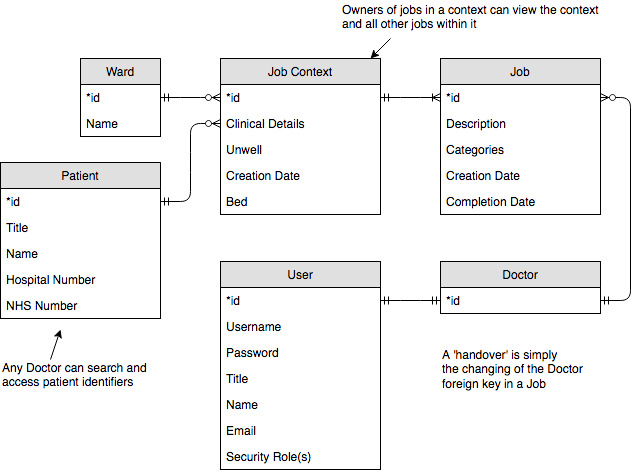
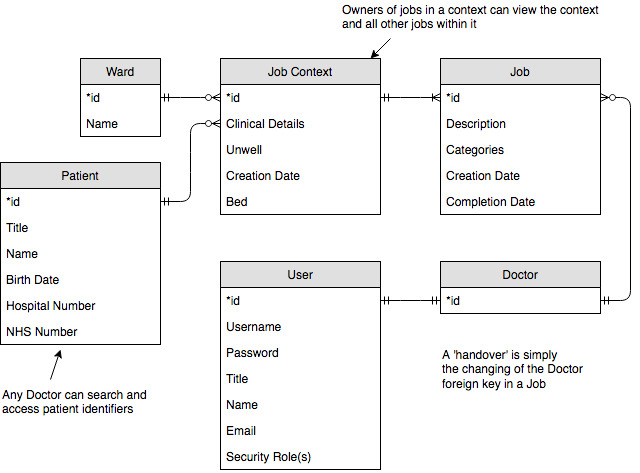
modified pdf printing to work with jobs

Changed region(s): [[0.0, 0.5624, 0.25, 0.8879]]

diff --git a/src/main/resources/templates/misc/printjobs.html b/src/main/resources/templates/misc/printjobs.html
@@ -1,0 +1,65 @@
+<!DOCTYPE HTML>
+<html xmlns:th="http://www.thymeleaf.org">
+<head>
+    <style>
+        p { margin: 0; }
+        th, td {
+            border-bottom: 1px solid #ddd;
+            vertical-align: top;
+        }
+        @page { size: A4 landscape;}
+        body { font-family: 'Roboto', sans-serif; }
+        tr { page-break-inside: avoid !important }
+    </style>
+</head>
+<body>
+    <table>
+        <colgroup>
+            <col span="1" style="width: 25%;" />
+            <col span="1" style="width: 15%;" />
+            <col span="1" style="width: 15%;" />
+            <col span="1" style="width: 25%;" />
+            <col span="1" style="width: 25%;" />
+            <col span="1" style="width: 10%;" />
+        </colgroup>
+
+        <thead>
+            <tr>
+                <th>Patient Details</th>
+                <th>Unwell</th>
+                <th>Category</th>
+                <th>Clinical Details</th>
+                <th>Job Description</th>
+                <th>Done</th>
+            </tr>
+        </thead>
+
+        <tbody>
+            <tr th:each="job,iterStat : ${jobs}">
+                <td>
+                    <p><span th:text="${job.jobContext.patient.title}"/>  <span th:text="${job.jobContext.patient.firstName}"/> <span th:text="${job.jobContext.patient.lastName}"/></p>
+                    <p>D.O.B: <span th:text="${job.jobContext.patient.birthDate}"/></p>
+                    <p>Ward: <span th:text="${job.jobContext.ward.name}"/></p>
+                    <p>Bed: <span th:text="${job.jobContext.bed}"/></p>
+                    <p>Hosp. #: <span th:text="${job.jobContext.patient.hospitalNumber}"/></p>
+                </td>
+                <td>
+                    <span th:text="${job.jobContext.unwell}"/>
+                </td>
+                <td>
+                    <span th:text="${job.category}"/>
+                </td>
+                <td>
+                    <span th:text="${job.jobContext.clinicalDetails}"/>
+                </td>
+                <td>
+                    <span th:text="${job.description}"/>
+                </td>
+                <td>
+                    <p></p>
+                </td>
+            </tr>
+        </tbody>
+    </table>
+</body>
+</html>

diff --git a/src/main/java/com/quantech/model/Patient.java b/src/main/java/com/quantech/model/Patient.java
@@ -7,6 +7,8 @@ import javax.validation.constraints.NotNull;
 
 import java.util.ArrayList;
 import java.util.List;
+import java.util.Date;
+
 
 @Entity
 public class Patient {
@@ -24,6 +26,10 @@ public class Patient {
     @NotNull
     private String lastName;
 
+    @Temporal(TemporalType.DATE)
+    @NotNull
+    private Date birthDate;
+
     @NotNull
     @Column(unique = true)
     private Long hospitalNumber;
@@ -37,10 +43,11 @@ public class Patient {
 
     public Patient() { this.jobContexts = new ArrayList<>(); }
 
-    public Patient(Title title, String firstName, String lastName, Long hospitalNumber, Long nHSNumber, List<JobContext> jobContexts) {
+    public Patient(Title title, String firstName, String lastName, Date birthDate, Long hospitalNumber, Long nHSNumber, List<JobContext> jobContexts) {
         this.title = title;
         this.firstName = firstName;
         this.lastName = lastName;
+        this.birthDate = birthDate;
         this.hospitalNumber = hospitalNumber;
         this.nHSNumber = nHSNumber;
         this.jobContexts = jobContexts;
@@ -108,6 +115,22 @@ public class Patient {
      */
     public void setLastName(String lastName) {
         this.lastName = lastName;
+    }
+
+    /**
+     * Birth date getter.
+     * @return Patient birth date.
+     */
+    public Date getBirthDate() {
+        return birthDate;
+    }
+
+    /**
+     * Birth date setter.
+     * @param birthDate Patient birth date.
+     */
+    public void setBirthDate(Date birthDate) {
+        this.birthDate = birthDate;
     }
 
     /**

diff --git a/src/main/java/com/quantech/misc/PdfGenerator.java b/src/main/java/com/quantech/misc/PdfGenerator.java
@@ -1,6 +1,6 @@
 package com.quantech.misc;
 
-import com.quantech.entities.patient.Patient;
+import com.quantech.model.Job;
 import org.thymeleaf.TemplateEngine;
 import org.thymeleaf.context.Context;
 import org.thymeleaf.templateresolver.ClassLoaderTemplateResolver;
@@ -13,7 +13,7 @@ import java.util.List;
 
 public class PdfGenerator {
 
-    public void patientAsPdf(List<Patient> patients) throws Exception {
+    public void patientAsPdf(List<Job> jobs) throws Exception {
 
         // set up thymeleaf rendering engine
         //
@@ -33,10 +33,10 @@ public class PdfGenerator {
         OutputStream outputStream = new FileOutputStream(out);
         // the context data is used to fill the thymeleaf template
         Context context = new Context();
-        context.setVariable("patients", patients);
+        context.setVariable("jobs", jobs);
 
         // make html file
-        String html = templateEngine.process("legacy/ui/Print/template", context);
+        String html = templateEngine.process("templates/misc/printjobs", context);
 
         renderer.setDocumentFromString(html);
         renderer.layout();

diff --git a/README.md b/README.md
@@ -15,4 +15,4 @@ The ER diagram below shows the new database structure.
 
 And the illustration below is our goal for the general UI.
 
-<img src="/Users/louis/electronic-handover/docs/UI Diagram.png" />
+<img src="/Users/louis/electronic-handover/docs/ui-diag.png" />
